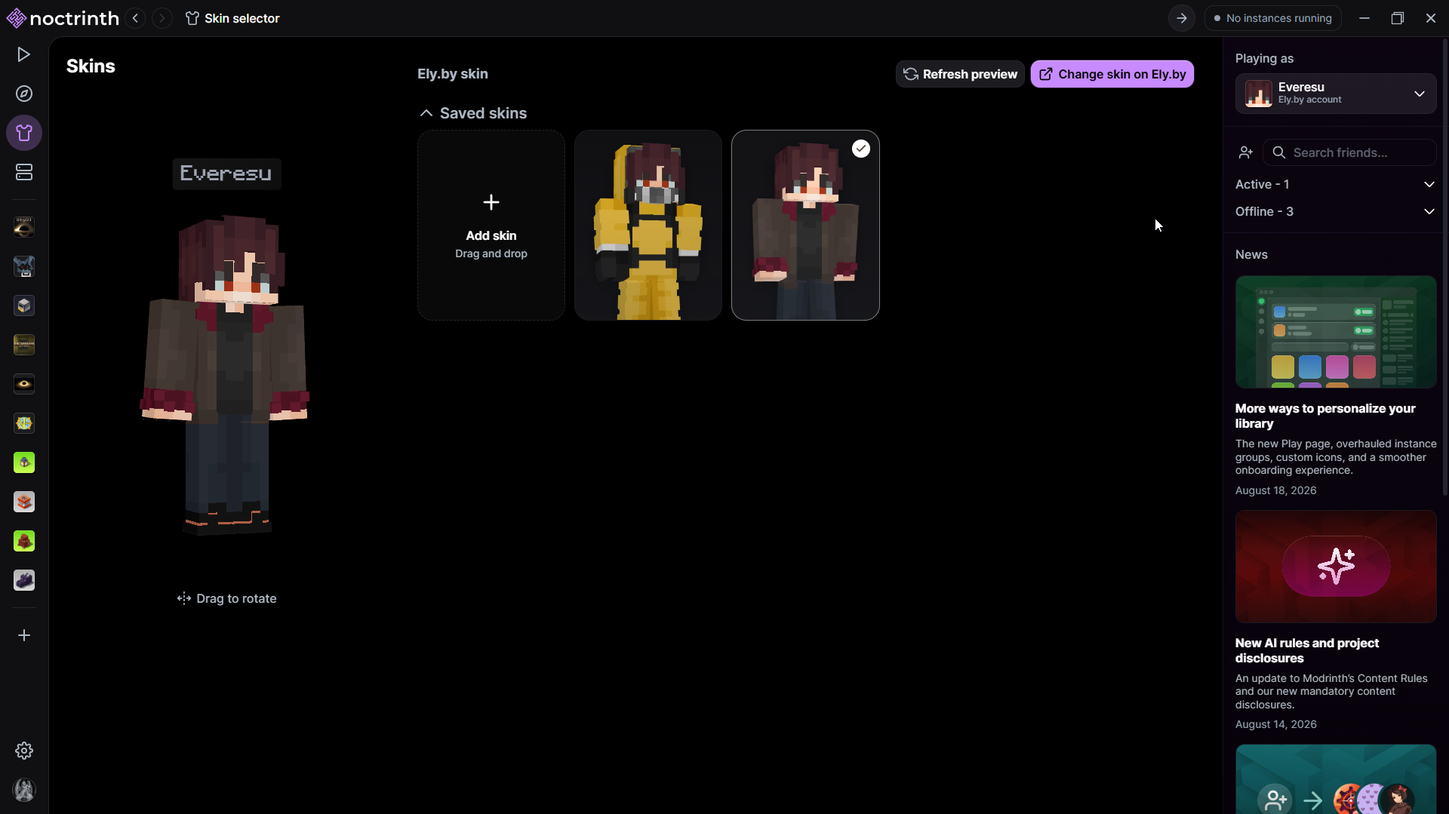
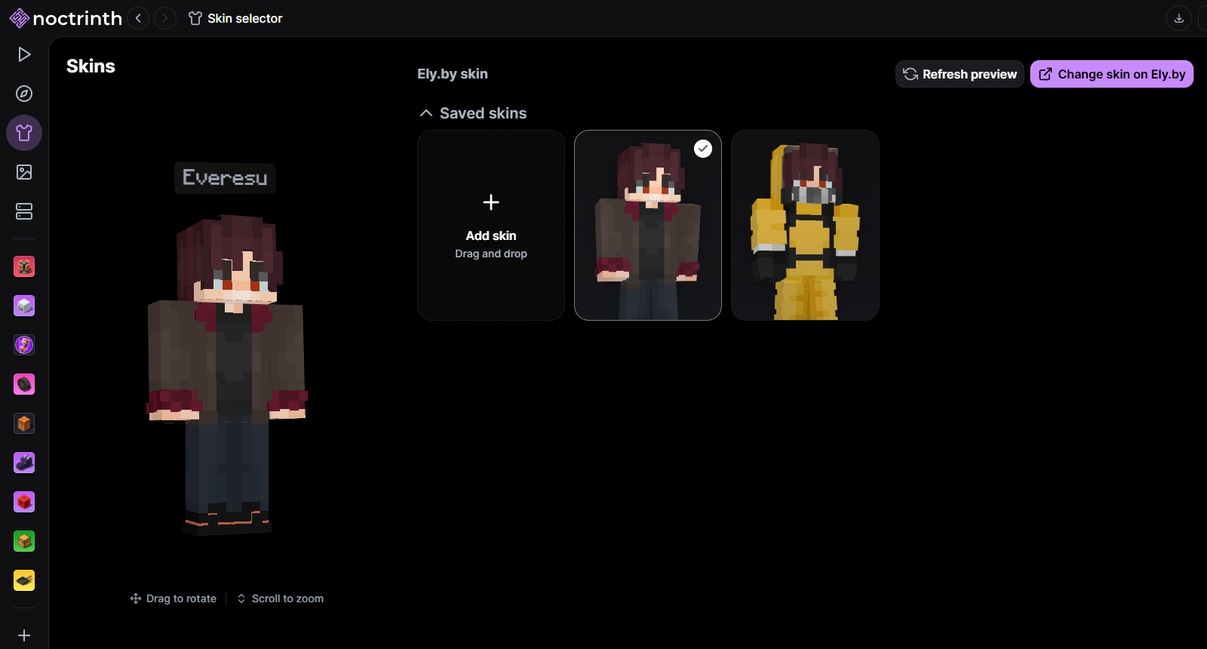
Description rewamp

diff --git a/README.ru.md b/README.ru.md
@@ -9,9 +9,13 @@
 
 [English](README.md) · **Русский**
 
-**Меняешь лаунчер? Твои инстансы переезжают вместе с тобой — в один клик, ничего не потеряется.**
+**Ely.by, офлайн-аккаунты и паки с CurseForge — в том же Modrinth App, к которому ты привык.**
 
-🌙 Форк Modrinth App с поддержкой Ely.by, установкой CurseForge-паков и импортом инстансов из шести лаунчеров 🚀
+🌙 Форк Modrinth App, который понимает Ely.by, ставит паки с CurseForge и возвращает скины всем игрокам на офлайн-серверах 🚀
+
+<a href="https://github.com/Everelsu/Noctrinth/releases/latest"><img src=".github/assets/readme/download-windows.ru.svg" alt="Скачать для Windows" height="56"/></a>
+<a href="https://github.com/Everelsu/Noctrinth/releases/latest"><img src=".github/assets/readme/download-macos.ru.svg" alt="Скачать для macOS" height="56"/></a>
+<a href="https://github.com/Everelsu/Noctrinth/releases/latest"><img src=".github/assets/readme/download-linux.ru.svg" alt="Скачать для Linux" height="56"/></a>
 
 [Список изменений](https://everelsu.github.io/Noctrinth/) · [Релизы](https://github.com/Everelsu/Noctrinth/releases) · [Issues](https://github.com/Everelsu/Noctrinth/issues) · [Обсуждения](https://github.com/Everelsu/Noctrinth/discussions) · [Оригинал](https://github.com/modrinth/code)
 
@@ -24,41 +28,56 @@
 <div align="center">
 <table>
 <tr>
-<td width="50%"><img src=".github/assets/screenshots/library.png" alt="Библиотека инстансов, лента новостей и список друзей" width="100%"/><br/><sub>Библиотека — все инстансы, рядом лента активности</sub></td>
-<td width="50%"><img src=".github/assets/screenshots/ely-by-skins.png" alt="Управление скином Ely.by прямо в Noctrinth" width="100%"/><br/><sub>Скины Ely.by — без похода на сайт</sub></td>
+<td width="62%"><img src=".github/assets/screenshots/ely-by-skins.png" alt="Сохранённые скины аккаунта Ely.by в выборе скина" width="100%"/><br/><sub>Скины Ely.by — надеть и загрузить прямо из лаунчера</sub></td>
+<td width="38%"><img src=".github/assets/screenshots/accounts.png" alt="Окно добавления аккаунта: Microsoft, Ely.by или офлайн" width="100%"/><br/><sub>Microsoft, Ely.by или просто ник</sub></td>
 </tr>
 </table>
 </div>
 
 ## Зачем нужен Noctrinth
 
-Modrinth App — действительно хороший лаунчер, но он умеет входить только через Microsoft, ставить только `.mrpack` с самого Modrinth и показывает рекламу. Если ты играешь через Ely.by, держишь полку зипов с CurseForge или сидишь за заблокированным подключением, приходится держать второй лаунчер только ради этих пробелов.
-
-<div align="center">
-
-| Метрика              | Значение                              |
-| -------------------- | ------------------------------------- |
-| Провайдеры аккаунтов | Microsoft **+ Ely.by**                |
-| Источники импорта    | **6** лаунчеров, включая Modrinth App |
-| Реклама              | **отсутствует**                       |
-
-</div>
+Modrinth App — действительно хороший лаунчер, но он умеет входить только через Microsoft, ставить только `.mrpack` с самого Modrinth и показывает рекламу. Если ты играешь через Ely.by или на офлайн-серверах, держишь полку зипов с CurseForge или сидишь за заблокированным подключением, приходится держать второй лаунчер ради этих пробелов. Noctrinth закрывает их в том же приложении и идёт за оригиналом релиз в релиз.
 
 ## Что добавляет Noctrinth
 
-- **Аккаунты Ely.by** — вход рядом с Microsoft, запуск через authlib-injector, управление скинами во встроенном окне
-- **Миграция из Modrinth App** — баннер находит установленный Modrinth App и предлагает перенести инстансы: все разом или выборочно, с опцией удалить их из источника после переноса
-- **Импорт модпаков CurseForge из `.zip`** — установка пака прямо с диска через тот же конвейер задач, что и всё остальное: в очереди, с возобновлением, с чистым откатом при ошибке
-- **Пресеты акцента** — девять цветов для всего интерфейса, от заставки и иконки окна до полосы загрузки, с необязательной подкраской поверхностей
-- **Скины для всех игроков** — на офлайн-серверах скины не передаются вовсе, и все ходят Стивами; лаунчер ищет их по нику у Ely.by и, если там не нашлось, у Mojang — без модов с обеих сторон
-- **Своя папка со скинами** — положи `<ник>.png`, и игрок наденет его раньше любой скин-системы; рядом лежат `capes/` и `elytras/`
-- **Две копии одной сборки** — запуск уже запущенной сборки вторым аккаунтом, у каждой копии своя консоль на вкладке «Логи»
-- **Общий профиль `options.txt`** — выбери настройки Minecraft, которые дописываются в каждую сборку при запуске, и исключи те сборки, которым это не нужно
-- **Коллекции и отслеживаемые проекты** — просмотр, создание и редактирование коллекций, плюс виртуальная коллекция всего, на что ты подписан
-- **Уведомления** — лента уведомлений Modrinth прямо в приложении
-- **Прокси** — один URL (`http://`, `https://`, `socks5://`, `socks5h://`) для всех запросов лаунчера — для регионов, где Modrinth заблокирован
-- **Встроенный список изменений** — заметки о релизах Noctrinth и Modrinth рядом, в Настройки → Список изменений
-- **Фиолетовый, без рекламы** — брендинг Noctrinth везде, реклама и допродажи Modrinth отключены
+### Аккаунты и скины
+
+- **Аккаунты Ely.by** — вход через страницу самого Ely.by, запуск через authlib-injector; скины можно смотреть, надевать, загружать и удалять в той же сетке, что и у аккаунта Microsoft
+- **Офлайн-аккаунты** — просто ник, для одиночной игры и офлайн-серверов; на нём виден плащ, который у этого ника есть в OptiFine, LabyMod, MinecraftCapes или SkinMC
+- **Скины для всех игроков** — офлайн-серверы не передают скины, и все ходят Стивами; лаунчер ищет каждого по нику у Ely.by и Mojang, без модов с обеих сторон
+- **Две копии одной сборки** — запуск уже запущенной сборки вторым аккаунтом, у каждой копии своя консоль
+
+<div align="center"><img src=".github/assets/screenshots/skin-preview.gif" alt="Превью скина поворачивается, ник остаётся над головой" width="280"/><br/><sub>Ник поворачивается вместе с моделью, как табличка</sub></div>
+
+### Сборки и контент
+
+- **Установка модпаков CurseForge из `.zip`** — в очереди, с возобновлением, с чистым откатом при ошибке и с иконкой самого пака
+- **CurseForge-сборки приезжают целиком** — импорт докачивает моды, которых не хватает в папке, и подписывает каждый файл CurseForge настоящим названием, автором и иконкой
+- **Миграция из Modrinth App** — баннер предлагает перенести сборки: все разом или выборочно, с опцией удалить их из источника
+- **Язык поиска по библиотеке** — `@sodium` находит сборки с модом, `#shader` фильтрует по типу, `!outdated` по состоянию, а `-` переворачивает условие
+- **Современная Java для 1.7.10** — один клик ставит lwjgl3ify или Cleanroom вместе с патчами лаунчера, ещё один всё возвращает
+- **Видеокарта для каждой Java** на Windows — для ноутбуков, где игра запускается не на той GPU
+- **Анимированные иконки** — GIF остаётся анимированным в библиотеке и переживает экспорт в `.mrpack`
+
+<div align="center"><img src=".github/assets/screenshots/library-search.gif" alt="Ввод @sodium в поиск библиотеки оставляет только сборки с Sodium" width="100%"/><br/><sub><code>@sodium</code> оставляет в библиотеке только сборки с ним</sub></div>
+
+### Вокруг приложения
+
+- **Перевод описаний** — Google Translate или DeepL со своим ключом, с возвратом к оригиналу одной кнопкой
+- **Пресеты акцента** — девять цветов для всего интерфейса, заставки, иконок окна и панели задач, с необязательной подкраской фона
+- **Жесты тачпада** — два пальца вбок листают назад и вперёд, как в Chrome
+- **Коллекции и отслеживаемые проекты**, а также **уведомления Modrinth** — прямо в приложении
+- **Прокси** — один URL (`http://`, `https://`, `socks5://`, `socks5h://`) для всех запросов лаунчера, для регионов, где Modrinth заблокирован
+- **Без рекламы** — реклама, окно согласия и допродажи Modrinth отключены
+
+<div align="center">
+<table>
+<tr>
+<td width="50%"><img src=".github/assets/screenshots/translate.gif" alt="Описание китайского модпака перетекает в английский и обратно" width="100%"/><br/><sub>Китайское описание — по-английски и обратно</sub></td>
+<td width="50%"><img src=".github/assets/screenshots/accents.gif" alt="Переключение девяти пресетов акцента перекрашивает окно настроек" width="100%"/><br/><sub>Девять акцентов, применяются сразу по клику</sub></td>
+</tr>
+</table>
+</div>
 
 ## Начало работы
 
@@ -75,11 +94,11 @@ Modrinth App — действительно хороший лаунчер, но 
 Обновления подписаны и доставляются автоматически через GitHub Releases — переустанавливать не нужно.
 
 > [!NOTE]
-> Пре-релизные сборки (`0.19.2-beta.1` и подобные) **не** раздаются авто-обновлением. Ставь их вручную; при выходе соответствующего стабильного релиза приложение подхватит его как обычное обновление.
+> Пре-релизные сборки (`0.21.10-beta.1` и подобные) **не** раздаются авто-обновлением. Ставь их вручную; при выходе соответствующего стабильного релиза приложение подхватит его как обычное обновление.
 
 ### Перенос инстансов
 
-Уже на Modrinth App? Открой Noctrinth — баннер предложит импортировать всё найденное. Хочешь выбрать сам? **Создать инстанс → Импорт** покажет Modrinth App рядом с Prism, MultiMC, ATLauncher, GDLauncher и CurseForge.
+Уже на Modrinth App? Открой Noctrinth, и баннер предложит импортировать всё найденное. Хочешь выбрать сам? **Создать инстанс → Импорт** покажет Modrinth App рядом с Prism, MultiMC, ATLauncher, GDLauncher и CurseForge.
 
 ## Сборка из исходников
 
@@ -117,9 +136,9 @@ pnpm prepr:frontend:app
 
 ## Отношения с оригиналом
 
-Noctrinth синхронизируется с [modrinth/code](https://github.com/modrinth/code) и привязывает свою версию к версии оригинала один в один — если у Modrinth `0.19.1`, у Noctrinth тоже `0.19.1`. Там, где обе стороны реализуют одно и то же, побеждает вариант оригинала, а вариант форка удаляется. Код, специфичный только для форка, остаётся — но лишь там, где не конфликтует.
+Noctrinth синхронизируется с [modrinth/code](https://github.com/modrinth/code) и привязывает свою версию к версии оригинала один в один: если у Modrinth `0.21.9`, у Noctrinth тоже `0.21.9`. Там, где обе стороны реализуют одно и то же, побеждает вариант оригинала, а вариант форка удаляется. Так ушли общий профиль `options.txt`, своя вкладка скриншотов и свой кэш загрузок: синхронизация настроек, страница «Скриншоты» и хранилище контента из оригинала делают то же самое лучше.
 
-Быстрые патчи между релизами оригинала выходят как semver пре-релизы (`0.19.2-beta.1`), которые сортируются выше текущего стабильного релиза и ниже следующего — так тестеры сразу переходят на настоящий релиз, как только он выходит.
+Исправление между релизами оригинала выходит микропатчем (`0.21.6+1`) — установки на этой версии получают его как обычное обновление. Тестовые сборки выходят пре-релизами (`0.21.10-beta.1`), которые сортируются выше текущего стабильного релиза и ниже следующего, так что тестеры сразу переходят на настоящий релиз, как только он выходит.
 
 ## Участие в разработке
 

diff --git a/README.md b/README.md
@@ -9,9 +9,13 @@
 
 **English** · [Русский](README.ru.md)
 
-**Switching launchers? Your instances come with you — one click, nothing left behind.**
+**Ely.by, offline accounts and CurseForge packs, in the Modrinth App you already know.**
 
-🌙 A Modrinth App fork that speaks Ely.by, installs CurseForge packs, and imports your instances from six launchers 🚀
+🌙 A Modrinth App fork that speaks Ely.by, installs CurseForge packs and gives every player on an offline server their skin 🚀
+
+<a href="https://github.com/Everelsu/Noctrinth/releases/latest"><img src=".github/assets/readme/download-windows.svg" alt="Download for Windows" height="56"/></a>
+<a href="https://github.com/Everelsu/Noctrinth/releases/latest"><img src=".github/assets/readme/download-macos.svg" alt="Download for macOS" height="56"/></a>
+<a href="https://github.com/Everelsu/Noctrinth/releases/latest"><img src=".github/assets/readme/download-linux.svg" alt="Download for Linux" height="56"/></a>
 
 [Changelog](https://everelsu.github.io/Noctrinth/) · [Releases](https://github.com/Everelsu/Noctrinth/releases) · [Issues](https://github.com/Everelsu/Noctrinth/issues) · [Discussions](https://github.com/Everelsu/Noctrinth/discussions) · [Upstream](https://github.com/modrinth/code)
 
@@ -24,41 +28,56 @@
 <div align="center">
 <table>
 <tr>
-<td width="50%"><img src=".github/assets/screenshots/library.png" alt="Your instance library, with a live news feed and friends list" width="100%"/><br/><sub>Library — every instance, with an activity feed alongside</sub></td>
-<td width="50%"><img src=".github/assets/screenshots/ely-by-skins.png" alt="Managing an Ely.by skin from inside Noctrinth" width="100%"/><br/><sub>Ely.by skins, managed without leaving the launcher</sub></td>
+<td width="62%"><img src=".github/assets/screenshots/ely-by-skins.png" alt="An Ely.by account's saved skins in the skin selector" width="100%"/><br/><sub>Ely.by skins, worn and uploaded from the launcher</sub></td>
+<td width="38%"><img src=".github/assets/screenshots/accounts.png" alt="The add-account dialog offering Microsoft, Ely.by and offline accounts" width="100%"/><br/><sub>Microsoft, Ely.by or just a name</sub></td>
 </tr>
 </table>
 </div>
 
 ## Why Noctrinth
 
-The Modrinth App is a genuinely good launcher — but it only knows Microsoft accounts, only installs Modrinth's own `.mrpack` files, and shows you ads while you browse. If you play on Ely.by, keep a shelf of CurseForge zips, or sit behind a blocked connection, you end up running a second launcher just to cover the gaps.
-
-<div align="center">
-
-| Metric            | Value                                   |
-| ----------------- | --------------------------------------- |
-| Account providers | Microsoft **+ Ely.by**                  |
-| Import sources    | **6** launchers, including Modrinth App |
-| Ads               | **none**                                |
-
-</div>
+The Modrinth App is a genuinely good launcher, but it only knows Microsoft accounts, only installs Modrinth's own `.mrpack` files, and shows you ads while you browse. If you play on Ely.by or offline servers, keep a shelf of CurseForge zips, or sit behind a blocked connection, you end up running a second launcher to cover the gaps. Noctrinth covers them in the same app, and follows upstream release for release.
 
 ## What Noctrinth adds
 
-- **Ely.by accounts** — sign in alongside Microsoft, launch through authlib-injector, manage skins in an embedded window
-- **Modrinth App migration** — a banner spots an existing Modrinth App install and offers to bring instances over, all at once or hand-picked, optionally clearing them from the source once the copy lands
-- **CurseForge modpack `.zip` import** — install a pack straight from disk through the same job pipeline as everything else: queued, resumable, rolled back cleanly on failure
-- **Accent presets** — nine colours for the whole interface, from the splash screen and the window icon down to the loading bar, optionally tinting the surfaces with them
-- **Skins for every player** — offline servers send no skins at all, so everyone is Steve; the launcher looks them up by name from Ely.by and falls back to Mojang, without a mod on either side
-- **A skins folder of your own** — drop `<name>.png` in and that player wears it, ahead of any skin system, with `capes/` and `elytras/` beside it
-- **Two copies of one instance** — launch an instance that is already running as a second account, each with its own console on the Logs tab
-- **A shared `options.txt` profile** — pick the Minecraft options you want written into every instance on launch, and exclude the instances you don't
-- **Collections & followed projects** — browse, create and edit collections, plus a virtual collection of everything you follow
-- **Notifications** — Modrinth's notification feed, built into the app
-- **Proxy** — one URL (`http://`, `https://`, `socks5://`, `socks5h://`) routes every launcher request, for regions where Modrinth is blocked
-- **In-app changelog** — Noctrinth and Modrinth release notes side by side under Settings → Changelog
-- **Purple, ad-free** — Noctrinth branding throughout, with Modrinth's ads and upsells switched off
+### Accounts and skins
+
+- **Ely.by accounts**: sign in through Ely.by's own page, launch through authlib-injector, and browse, wear, upload and delete skins in the same grid the Microsoft account uses
+- **Offline accounts**: just a name, for singleplayer and offline-mode servers, wearing the cape that name has on OptiFine, LabyMod, MinecraftCapes or SkinMC
+- **Skins for every player**: offline servers send no skins, so everyone is Steve. The launcher looks each player up by name on Ely.by and Mojang, with no mod on either side
+- **Two copies of one instance**: launch a running instance again as another account, each copy with its own console
+
+<div align="center"><img src=".github/assets/screenshots/skin-preview.gif" alt="The skin preview turning, with the nametag staying above the head" width="280"/><br/><sub>The nametag turns with the model like a sign</sub></div>
+
+### Instances and content
+
+- **CurseForge modpack `.zip` install**: queued, resumable, rolled back cleanly on failure, with the pack's own icon
+- **CurseForge instances that arrive whole**: an import fetches the mods the folder is missing, and names every CurseForge file with its real title, author and icon
+- **Modrinth App migration**: a banner offers to bring Modrinth App instances over, all or hand-picked, optionally removing them from the source
+- **Library search language**: `@sodium` finds instances with a mod, `#shader` filters by type, `!outdated` by state, and `-` flips a term
+- **Modern Java for 1.7.10**: one click installs lwjgl3ify or Cleanroom with the launcher-side patches, and one click undoes it
+- **A graphics adapter per Java runtime** on Windows, for laptops that start the game on the wrong GPU
+- **Animated icons**: a GIF stays animated in the library and survives an `.mrpack` export
+
+<div align="center"><img src=".github/assets/screenshots/library-search.gif" alt="Typing @sodium into the library search narrows it to instances with Sodium" width="100%"/><br/><sub><code>@sodium</code> narrows the library to instances that have it</sub></div>
+
+### Around the app
+
+- **Description translation**: Google Translate, or DeepL with your own key, switched back to the original with one button
+- **Accent presets**: nine colours for the whole interface, the splash screen, the window and taskbar icons, optionally tinting the backgrounds too
+- **Touchpad navigation**: two fingers sideways go back and forward, the way Chrome does
+- **Collections and followed projects**, and **Modrinth notifications**, built into the app
+- **Proxy**: one URL (`http://`, `https://`, `socks5://`, `socks5h://`) for every launcher request, for regions where Modrinth is blocked
+- **No ads**: Modrinth's ads, consent popup and upsells are switched off
+
+<div align="center">
+<table>
+<tr>
+<td width="50%"><img src=".github/assets/screenshots/translate.gif" alt="A Chinese modpack description washing over into English and back" width="100%"/><br/><sub>A Chinese description, in English and back</sub></td>
+<td width="50%"><img src=".github/assets/screenshots/accents.gif" alt="Clicking through the nine accent presets recolours the settings window" width="100%"/><br/><sub>Nine accents, applied as you click</sub></td>
+</tr>
+</table>
+</div>
 
 ## Get started
 
@@ -75,11 +94,11 @@ Grab the installer for your platform from the [latest release](https://github.co
 Updates are signed and delivered automatically through GitHub Releases — no reinstalling.
 
 > [!NOTE]
-> Pre-release builds (`0.19.2-beta.1` and similar) are **not** served to the auto-updater. Install them by hand; the app will pick up the matching stable release as a normal update once it ships.
+> Pre-release builds (`0.21.10-beta.1` and similar) are **not** served to the auto-updater. Install them by hand; the app will pick up the matching stable release as a normal update once it ships.
 
 ### Bring your instances over
 
-Already on the Modrinth App? Open Noctrinth — a banner offers to import everything it finds. Prefer to choose? **Create instance → Import** lists Modrinth App next to Prism, MultiMC, ATLauncher, GDLauncher and CurseForge.
+Already on the Modrinth App? Open Noctrinth and a banner offers to import everything it finds. Prefer to choose? **Create instance → Import** lists Modrinth App next to Prism, MultiMC, ATLauncher, GDLauncher and CurseForge.
 
 ## Build from source
 
@@ -117,9 +136,9 @@ For architecture and infrastructure that isn't fork-specific, the [upstream repo
 
 ## Relationship with upstream
 
-Noctrinth syncs with [modrinth/code](https://github.com/modrinth/code) and pins its version to upstream's exactly — when Modrinth is on `0.19.1`, so is Noctrinth. Where both sides implement the same thing, upstream's version wins and the fork's is dropped. Fork-only work survives only where it doesn't collide.
+Noctrinth syncs with [modrinth/code](https://github.com/modrinth/code) and pins its version to upstream's exactly: when Modrinth is on `0.21.9`, so is Noctrinth. Where both sides implement the same thing, upstream's version wins and the fork's is dropped. That is how the fork's shared `options.txt` profile, screenshots tab and download cache went: upstream's settings sync, Screenshots page and content store do the same jobs better.
 
-Fast patches between upstream releases ship as semver pre-releases (`0.19.2-beta.1`), which sort above the current stable and below the next one — so testers roll onto the real release the moment it lands.
+A fix between upstream releases ships as a micropatch (`0.21.6+1`), which installs already on that version take as a normal update. Test builds ship as pre-releases (`0.21.10-beta.1`), which sort above the current stable and below the next one, so testers roll onto the real release the moment it lands.
 
 ## Contributing
 
@@ -127,7 +146,7 @@ Bug reports and pull requests are welcome — [open an issue](https://github.com
 
 Found a bug that isn't Noctrinth-specific? It belongs [upstream](https://github.com/modrinth/code/issues); fixing it there means everyone gets it, and it reaches this fork on the next sync.
 
-If Noctrinth helped you or something like that, [give it a star](https://github.com/Everelsu/Noctrinth/stargazers).
+If Noctrinth helped you, [give it a star](https://github.com/Everelsu/Noctrinth/stargazers).
 
 ## License
 
